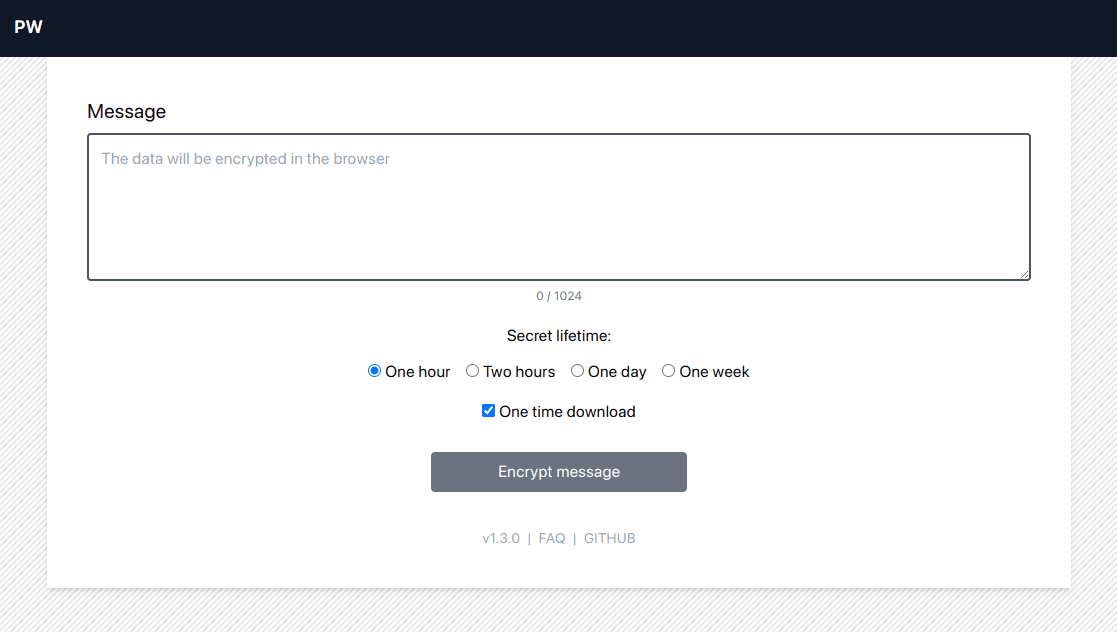
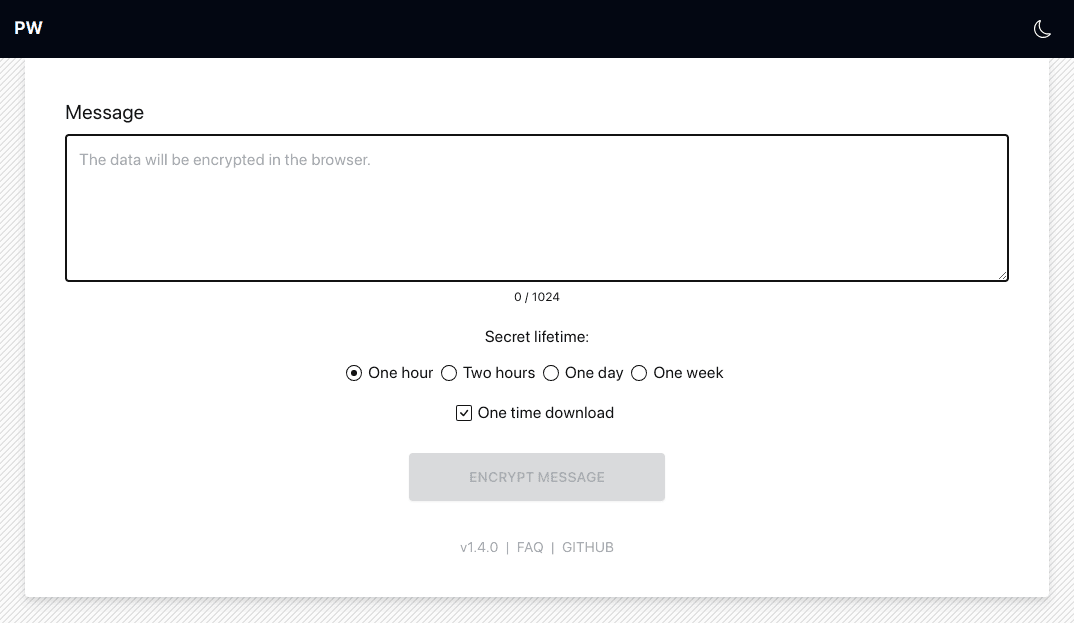
Update docs

diff --git a/README.md b/README.md
@@ -4,6 +4,8 @@ PW is a project for sharing secrets (any confidential information). All data is 
 
 ![Screenshot of PW application for sharing secrets](pw-screenshot.png)
 
+![Screenshot of PW application for sharing secrets](pw-screenshot-dark.png)
+
 [Demo](https://pw.tinyops.ru) | [Demo (RU)](https://pw-ru.tinyops.ru)
 
 ## Getting started
